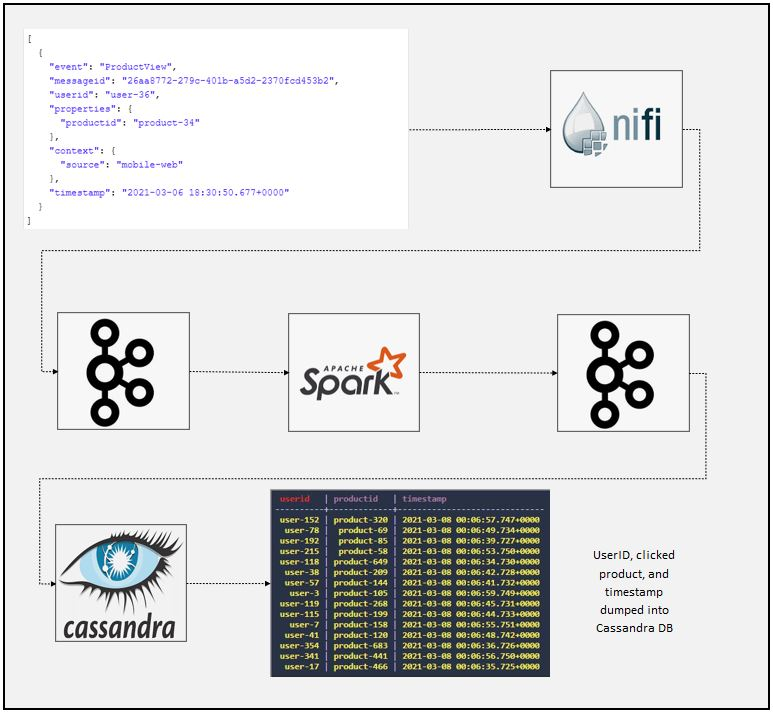
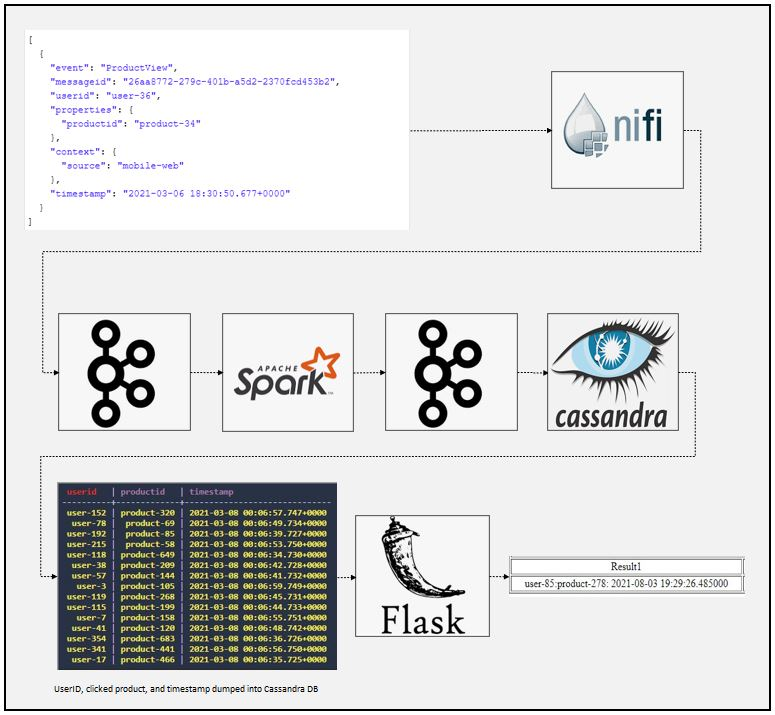
comments added

diff --git a/templates/index.html b/templates/index.html
@@ -7,7 +7,7 @@
 
 <body>
 
-	<!-- Its the form where a user can submit his or her name and email -->
+	<!-- Its the form where a user can user id -->
 
 	<form class="form-inline" action="" method="POST">
 		  <label>User</label>

diff --git a/app.py b/app.py
@@ -6,39 +6,52 @@ app = Flask(__name__)
 
 # Connect cassandra db
 cluster = Cluster()
+# Cluter connect is used to connect database when host is localhost with default port
 session = cluster.connect("hepsiburada")
 
+# Create empty dictionary and list
 my_dict = {}
 my_list = []
+
+# Create index route with method get and post
 @app.route("/index", methods=["GET", "POST"])
 def index():
+    #Receive given user input when submitted
     if request.method == 'POST':
         data = request.form
         name = data["name"]
-
+        #Query database to find all info about given user
         query = "select userid,productid,timestamp from user where userid='{}' allow filtering".format(name)
         user_data = session.execute(query)
+        #Create dictionary from result set (Dictionary key productid and value timestamp)
         for row in user_data:
             my_dict["{}".format(row[1])] = (row[2])
+        #Convert timestamp value to list
         list_value = list(my_dict.values())
         #print(list_value)
+        #Remove unncessary part of the timestamp (+000)
         for i in list_value:
             removed = i.split("+")[0]
             my_list.append(removed)
+        #Convert string to timestamp
         date = [str(datetime.strptime(holiday, '%Y-%d-%m %H:%M:%S.%f')) for holiday in my_list]
         print(date)
+        #Change keys and values to sort easly according to timestamp value
         my_dict2 = {y:x for x,y in my_dict.items()}
         #print(sorted(date,reverse=True))
         #print(my_dict2)
         values = list(my_dict2.values())
+        #Create new dictionary with timestamp schema
         my_dict3 = dict(zip(date, values))
+        #Sort according to timestamp value
         desc_result = sorted(my_dict3,reverse=True)
+        #Get last five product view
         result1 = desc_result[0]
         result2 = desc_result[1]
         result3 = desc_result[2]
         result4 = desc_result[3]
         result5 = desc_result[4]
-        # passes user_data variable into the index.html file.
+
         return render_template("index.html", my_dict3=my_dict3,result1=result1,result2=result2,result3=result3,result4=result4,result5=result5,name=name)
 
     return render_template("index.html")
